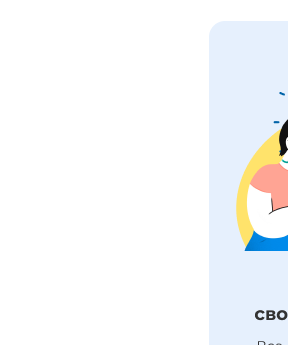
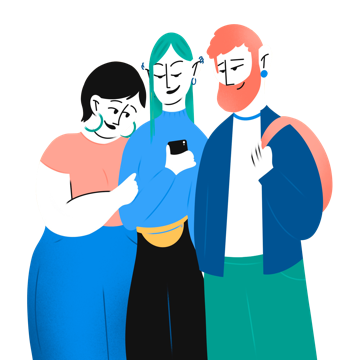
refactoring

diff --git a/src/index.css b/src/index.css
@@ -332,10 +332,14 @@ ol {
   font-weight: 600;
 }
 
-.card__tag .icon {
-  width: 14px;
-  height: 14px;
-  color: #963cff;
+.card__tag-icon {
+  display: inline-flex;
+  align-items: center;
+  justify-content: center;
+  width: 18px;
+  height: 18px;
+  font-size: 14px;
+  line-height: 1;
 }
 
 .card__body {
@@ -443,6 +447,11 @@ ol {
   height: 331px;
 }
 
+.article__image--side {
+  width: 282px;
+  height: 380px;
+}
+
 .article__toc {
   margin-bottom: 24px;
 }
@@ -462,6 +471,12 @@ ol {
   padding-left: 22px;
 }
 
+.article__toc ul ul {
+  gap: 4px;
+  margin-top: 4px;
+  padding-left: 24px;
+}
+
 .article__toc li::marker,
 .article__list li::marker {
   color: var(--color-accent);
@@ -478,11 +493,24 @@ ol {
   margin-bottom: 24px;
 }
 
+.article__media-row {
+  display: grid;
+  grid-template-columns: 282px 1fr;
+  gap: 24px;
+  align-items: start;
+}
+
 .article p,
 .article li,
 .quote {
   font-size: 16px;
   line-height: 1.5;
+}
+
+.article__caption {
+  color: var(--color-muted);
+  font-size: 14px;
+  line-height: 1.3;
 }
 
 .quote {
@@ -597,8 +625,15 @@ ol {
   text-align: center;
 }
 
+.sidebar-card__hero {
+  width: 257px;
+  height: 206px;
+  margin: 0 auto 24px;
+  object-fit: contain;
+}
+
 .sidebar-card h2 {
-  margin: 16px 0 8px;
+  margin: 0 0 8px;
   font-size: 20px;
   line-height: 1.2;
 }
@@ -614,6 +649,14 @@ ol {
   box-shadow: none;
 }
 
+.sidebar-card--blue p {
+  margin-bottom: 24px;
+}
+
+.sidebar-card:not(.sidebar-card--price) .button {
+  width: 100%;
+}
+
 .therapist__photo {
   width: 120px;
   height: 120px;
@@ -622,16 +665,53 @@ ol {
   object-fit: cover;
 }
 
+.therapist {
+  position: relative;
+}
+
+.therapist__badges {
+  position: absolute;
+  top: 16px;
+  left: 16px;
+  display: grid;
+  gap: 8px;
+}
+
+.therapist__badges span {
+  display: inline-flex;
+  align-items: center;
+  gap: 4px;
+  min-height: 24px;
+  padding: 0 6px;
+  border-radius: 6px;
+  background: rgba(243, 244, 248, 0.7);
+  font-size: 12px;
+  font-weight: 500;
+}
+
 .therapist__role {
+  margin-bottom: 4px;
+  color: var(--color-text);
+  font-weight: 600;
+}
+
+.therapist__meta {
   color: var(--color-muted);
+}
+
+.therapist h3 {
+  margin-top: 16px;
+  padding-top: 16px;
+  border-top: 1px solid #dedede;
+  font-size: 16px;
+  line-height: 1.5;
+  text-align: left;
 }
 
 .therapist ul {
   display: grid;
   gap: 8px;
-  margin: 16px 0;
-  padding-top: 16px;
-  border-top: 1px solid #dedede;
+  margin: 8px 0 16px;
   text-align: left;
   list-style-position: inside;
 }
@@ -641,13 +721,27 @@ ol {
 }
 
 .sidebar-banner {
-  display: block;
+  display: grid;
+  min-height: 292px;
   overflow: hidden;
+  padding: 60px 24px 0;
   border-radius: 16px;
+  background: #2963a3;
+  color: #ffffff;
+  text-align: center;
+}
+
+.sidebar-banner span {
+  position: relative;
+  z-index: 1;
+  font-size: 32px;
+  font-weight: 700;
+  line-height: 1.25;
 }
 
 .sidebar-banner img {
-  width: 100%;
+  width: 170px;
+  margin: 18px auto 0;
 }
 
 .sidebar-card--price {
@@ -933,6 +1027,15 @@ ol {
 
   .article__topics {
     display: none;
+  }
+
+  .article__media-row {
+    grid-template-columns: 1fr;
+  }
+
+  .article__image--side {
+    width: 100%;
+    height: 260px;
   }
 
   .article__image--small {

diff --git a/src/pages/ArticlePage.jsx b/src/pages/ArticlePage.jsx
@@ -17,34 +17,53 @@ function ArticlePage() {
           <section className="article__toc" aria-labelledby="toc-title">
             <h2 id="toc-title">Содержание</h2>
             <ul>
-              <li><a href="#anxiety">Как понять, что отношения с мамой были дисфункциональными</a></li>
-              <li><a href="#what-to-do">Что еще можно делать с тревогой?</a></li>
-              <li><a href="#exercise-one">Упражнение 1</a></li>
-              <li><a href="#exercise-two">Упражнение 2</a></li>
+              <li><a href="#anxiety">Как понять, что отношения с мамой были дисфункциональными и привели к травме?</a></li>
+              <li>
+                <a href="#hello">Мама привет!</a>
+                <ul>
+                  <li><a href="#hello">Под под заголовок под заголовком</a></li>
+                  <li><a href="#hello">Под под под заголовок под заголовком</a></li>
+                  <li><a href="#hello">Под под под под заголовок под заголовком</a></li>
+                </ul>
+              </li>
+              <li><a href="#what-to-do">Ну вот опять заголовок который как «привет мама»</a></li>
+              <li><a href="#exercise-one">Как понять, что вы страдаете от материнской травмы?</a></li>
             </ul>
           </section>
 
           <section className="article__section" id="anxiety">
             <h2>Заголовок h3</h2>
-            <p>Одна из самых важных задач, которую может дать работа с психотерапевтом, - научиться бережно замечать тревогу и возвращать себе ощущение опоры. Тревога часто возникает там, где много неопределенности и мало понятных действий.</p>
-            <p>Важно не пытаться мгновенно убрать все чувства. Гораздо полезнее разобраться, что именно сейчас происходит, какие мысли усиливают напряжение и что можно сделать в ближайшие несколько минут.</p>
+            <p>Один из самых важных навыков, которые может дать работа с психотерапевтом - умение в разных ситуациях по-разному обходиться со своими эмоциями. Снять этот процесс с автопилота и перевести его в поле сознания.</p>
+            <p>Давайте, к примеру, разберем тревогу. Можно разложить перед собой целую коллекцию доступных реакций и выбрать нужную.</p>
           </section>
 
           <blockquote className="quote">
-            <p>Мы знаем, что тревога является неприятным и мощным переживанием. Но она не делает вас слабым человеком и не отменяет вашу способность выбирать действия.</p>
+            <p>Мы знаем, что нуждаться в помощи и поддержке в трудные периоды жизни абсолютно нормально для любого человека, и стремимся сделать психотерапию безопасной, удобной и доступной каждому.</p>
             <cite>Екатерина Бельтюкова</cite>
           </blockquote>
 
+          <section className="article__section" id="hello">
+            <p>Одна из ключевых задач психотерапии как раз и заключается в том, чтобы этот репертуар расширять и обучать человека пользоваться доступными ему реакциями в той последовательности, пропорции и объеме, которые подходят именно ему. Без оглядки на то, как правильно или как у других.</p>
+            <div className="article__media-row">
+              <img className="article__image article__image--side" src={articleImages.hands} alt="Руки человека крупным планом" />
+              <p>Чем шире доступный вам репертуар реакций и чем более осознанно вы можете выбирать из него то, что лучше подойдет в конкретной ситуации, тем больше будет ваша устойчивость к стрессу, депрессии, неопределенности, да и к жизни в целом.</p>
+            </div>
+            <p>А еще порой можно разрешить себе тревогу заесть чем-то вкусным. Это, конечно, не самая здоровая стратегия, но в ряде ситуаций можно считать ее вполне рабочей.</p>
+          </section>
+
           <section className="article__section" id="what-to-do">
             <h2>Что еще можно делать с тревогой?</h2>
-            <p>Попробуйте заметить момент, когда тревога только начинает нарастать. Назовите чувство, проверьте дыхание и спросите себя: «Что я могу сделать прямо сейчас?» Такой вопрос помогает вернуть контроль.</p>
+            <ul className="article__list">
+              <li>Управлять ей через что-то внешнее: включать музыку, которая создает другое настроение, сесть за работу с цифрами, читать блоги, которые вас успокаивают и отвлекают.</li>
+              <li>А еще порой можно разрешить себе тревогу заесть чем-то вкусным. Это не самая здоровая стратегия, но в ряде ситуаций можно считать ее вполне рабочей.</li>
+            </ul>
             <img className="article__image" src={articleImages.people} alt="Люди стоят в светлом помещении и обсуждают ситуацию" />
-            <p>Если тревога связана с будущим, полезно разделить ситуацию на факты и предположения. Факты можно проверять, а предположения - обсуждать, записывать и постепенно снижать их влияние.</p>
+            <p className="article__caption">Онтогенез речи отражает групповой эриксоновский гипноз.</p>
           </section>
 
           <section className="exercise" id="exercise-one">
             <h2>Упражнение #1</h2>
-            <p>Сядьте удобно, поставьте ноги на пол и назовите пять предметов, которые видите вокруг. Затем отметьте четыре звука, три телесных ощущения, два запаха и один вкус. Это упражнение возвращает внимание в настоящее.</p>
+            <p>Нужно последовательно напрягать и расслаблять каждую мышцу в теле на несколько секунд. Напрягать стоит довольно сильно, чтобы потом отчетливее ощущать расслабляющий эффект. Начать можно с пальцев ног и постепенно подниматься вверх.</p>
           </section>
 
           <section className="article__section">
@@ -54,13 +73,13 @@ function ArticlePage() {
               <li>Записывайте тревожные мысли, чтобы отделять факты от фантазий.</li>
               <li>Обращайтесь за поддержкой, если тревога мешает жить обычной жизнью.</li>
             </ul>
-            <img className="article__image article__image--small" src={articleImages.hands} alt="Руки человека крупным планом" />
             <img className="article__image" src={articleImages.woman} alt="Женщина сидит у окна в теплой одежде" />
+            <p>Чем шире доступный вам репертуар реакций и чем более осознанно вы можете выбирать из него то, что лучше всего подойдет в каждой конкретной ситуации, тем больше будет ваша устойчивость к стрессу.</p>
           </section>
 
           <section className="exercise exercise--warm" id="exercise-two">
             <h2>Упражнение #2</h2>
-            <p>Напишите короткий список ситуаций, которые вызывают тревогу. Рядом с каждой ситуацией укажите одно маленькое действие, которое находится в зоне вашего контроля.</p>
+            <p>Нужно последовательно напрягать и расслаблять каждую мышцу в теле на несколько секунд. Начать можно с пальцев ног и постепенно подниматься вверх, чтобы через напряжение дать стрессу выход.</p>
           </section>
 
           <div className="article__split">
@@ -76,7 +95,7 @@ function ArticlePage() {
 
           <section className="exercise exercise--blue">
             <h2>Упражнение #3</h2>
-            <p>Вернитесь к списку тревожных мыслей через день. Отметьте, какие из них подтвердились, а какие оказались только предположениями. Это помогает увидеть, что тревога не всегда равна реальности.</p>
+            <p>Нужно последовательно напрягать и расслаблять каждую мышцу в теле на несколько секунд. Смысл в том, чтобы через напряжение дать стрессу выход, а затем вновь привести себя в спокойное состояние через расслабление.</p>
           </section>
 
           <div className="article__topics">

diff --git a/src/components/Sidebar.jsx b/src/components/Sidebar.jsx
@@ -4,24 +4,32 @@ function Sidebar() {
   return (
     <aside className="sidebar" aria-label="Дополнительные материалы">
       <section className="sidebar-card sidebar-card--blue">
-        <img src={sidebarImages.chat} alt="" />
+        <img className="sidebar-card__hero" src={sidebarImages.chat} alt="" />
         <h2>Загружаем свободные окошки</h2>
-        <p>Все в порядке, сейчас мы подберем для вас подходящего психолога.</p>
+        <p>Все в порядке, сейчас мы перенаправим вас в сервис записи Qlick, через который удобно выбрать дату, время встречи и оплатить её</p>
         <button className="button button--primary" type="button">Подробнее</button>
       </section>
 
       <section className="sidebar-card therapist">
+        <div className="therapist__badges" aria-label="Форматы работы">
+          <span>📝 Переписка</span>
+          <span>📹 Видео</span>
+        </div>
         <img className="therapist__photo" src={sidebarImages.person} alt="Психолог Лилия" />
         <h2>Лилия</h2>
         <p className="therapist__role">Психолог</p>
+        <p className="therapist__meta">Опыт 6 лет · 43 года</p>
+        <h3>С чем работает психолог</h3>
         <ul>
-          <li>Опыт 6 лет</li>
-          <li>43 года</li>
+          <li>Тревога, тревожности</li>
+          <li>Подавленность</li>
+          <li>Тревога и панические атаки</li>
         </ul>
         <button className="button button--primary" type="button">Подробнее</button>
       </section>
 
-      <a className="sidebar-banner" href="/blog" aria-label="Подарить заботу">
+      <a className="sidebar-banner" href="/blog">
+        <span>Дарите заботу</span>
         <img src={sidebarImages.gift} alt="" />
       </a>
 

diff --git a/src/components/ArticleCard.jsx b/src/components/ArticleCard.jsx
@@ -1,5 +1,3 @@
-import Icon from './Icon'
-
 function ArticleCard({ article }) {
   return (
     <article className={`card${article.wide ? ' card--wide' : ''}`}>
@@ -9,7 +7,7 @@ function ArticleCard({ article }) {
       <div className="card__tags">
         {article.tags.map((tag) => (
           <span className="card__tag" key={tag}>
-            <Icon name="tag" />
+            <span className="card__tag-icon" aria-hidden="true">🦄</span>
             {tag}
           </span>
         ))}